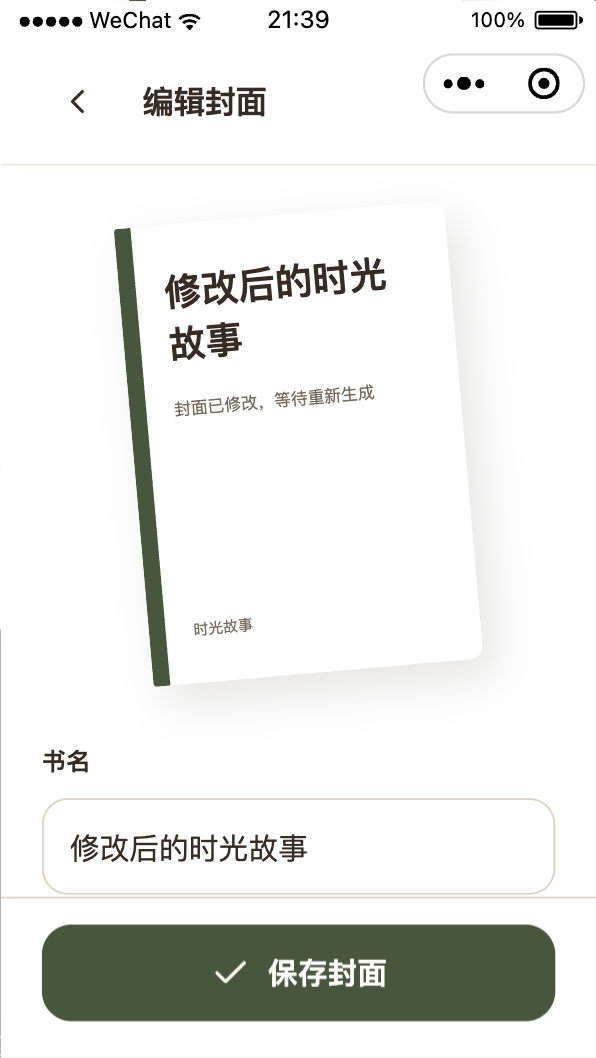
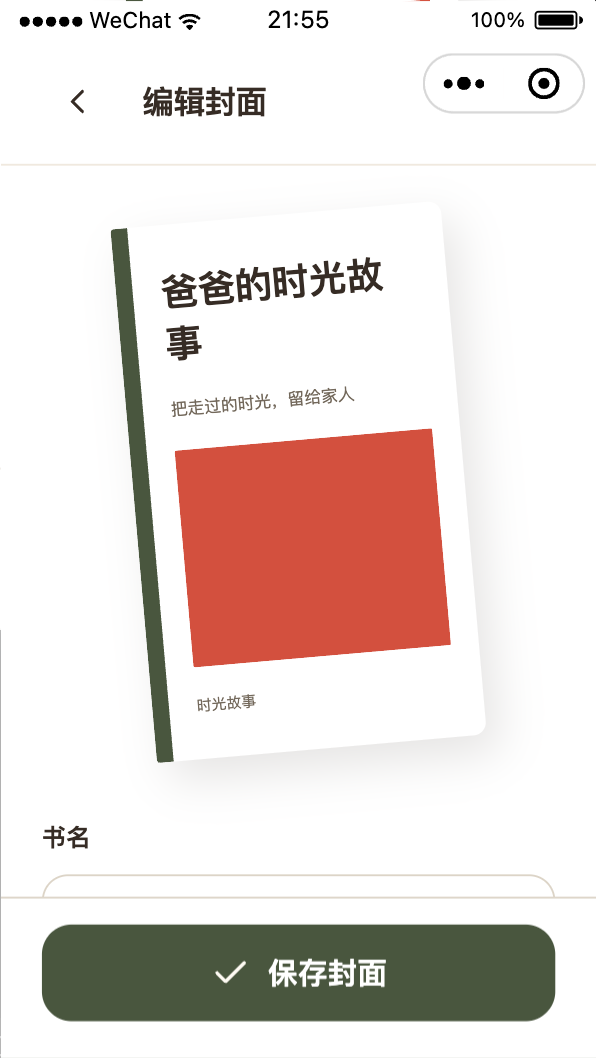
test(mp12): verify native PDF retry audio seek and print recovery

diff --git a/docs/delivery/2026-11-11/miniprogram-refactor/MP10-delivery.md b/docs/delivery/2026-11-11/miniprogram-refactor/MP10-delivery.md
@@ -45,7 +45,8 @@
 
 - 首页封面 → 空书稿／就绪概览 → 预览 → 实际下载 PDF。`wx.openDocument` 返回成功，WPS 打开相同本地文件名，显示四页、正确中文封面／寄语、红色合成照片和目录／故事缩略图，且显示「未上云」。这是开发者工具调用与实际内容的关联证据；手机查看器外壳另验，不制作假的 320/390 系统页面截图。
 - 仅注入外部文档查看器失败后，实际点击产生 ReaderFailed；恢复真实 `wx.openDocument` 后点击重新打开，页面错误清除并成功打开。
-- 封面实际输入书名／寄语，进入选图页选择不用照片，返回后草稿保留；保存后 API 回读两字段与照片为空均一致。再次编辑未保存书名，真实退出提示确认后回读仍为已保存标题。选图返回出现多余离开提示，已交由修复轮处理；带照片往返仍待修复后原生复验。
-- BookChanged、BookEmpty、BookOverview、BookCover、BookReader、ReaderFailed、OriginalAudio 均已采集 320。真实 PDF 失败重试已恢复就绪，但失败页新增重试图标后的截图待复采；原声页面已读取冻结版本与真实时长，长音频暂停／拖动继续待验。
+- 封面实际输入书名／寄语，进入选图页选择不用照片，返回后草稿保留；保存后 API 回读两字段与照片为空均一致。再次编辑未保存书名，真实退出提示确认后回读仍为已保存标题。选图返回多余离开提示已修复并在 release `4e38b3f` 原生复验：输入两字段、选真实受保护照片、直接返回、草稿保留并一并保存均成功，重新进入显示已保存照片。
+- BookChanged、BookEmpty、BookOverview、BookCover、BookReader、ReaderFailed、OriginalAudio 均已采集 320。BookGenerateFailed 已补采最终图标的 390/320，两次真实失败任务的原生重试均恢复就绪。
+- OriginalAudio 使用新夹具上传的真实 30.096 秒 MP3，实际播放、暂停于 1.744 秒，CUA 拖动原生 slider 到 16.4 秒，再点击继续播放推进到 17.072 秒。退出登录后 entry、照片、播放器和登录态均清除；[拖动补充图](evidence/MP10/native/OriginalAudioSeek-320.png)保留实际时间，未改页面业务数据或播放器时长。
 
-上表的待验列为初始验收清单；最新逐画板状态以 design-map 为准。390、封面修复复验、原声完整播放操作继续进行。
+上表的待验列为初始验收清单；最新逐画板状态以 design-map 为准。其余 390 画板继续进行。PdfDocument 记录为系统调用与实际 PDF 内容已验证，两个应用视口截图字段保持空；手机微信查看器仍是独立待验项。

diff --git a/docs/delivery/2026-11-11/miniprogram-refactor/MP12-delivery.md b/docs/delivery/2026-11-11/miniprogram-refactor/MP12-delivery.md
@@ -33,6 +33,6 @@ node scripts/test-native-design.cjs family
 
 `stories` 复用已保存故事，`cover` 复用当前书稿；`capture <board> <actual-entry> <observed-interaction>` 只采集当前原生画面。实际操作时分别将 DevTools 内容宽度切到 390 与 320，脚本读取并校验 `wx.getWindowInfo()`，不通过改页面数据伪造尺寸或状态。失败/录音/PDF 查看器/制作状态继续使用各模块既有 provider fixture 和真实状态流进入，不能直接设置业务页面数据。
 
-当前已完成录音 320 真实上传／丢响应重试、书稿 320 实际 PDF 打开及地址保存／提交／生产状态读取；详见各票记录及[本轮书稿制作检查点](evidence/MP12/native-book-print-320.json)。实际拖动发现 sort-list 最后一次异步坐标查询被 touchend 提前清空，尚未成功保存顺序；封面照片返回的多余离开提示也已转修复轮，均待原生复验。
+当前已完成录音 320 真实上传／丢响应重试、书稿 320 实际 PDF 打开、长原声拖动／退出清理、地址保存／提交／生产状态读取，以及真实取消订单重提的未知响应查询恢复；详见各票记录及[本轮书稿制作检查点](evidence/MP12/native-book-print-320.json)。原生发现的 sort-list 异步查询／touchend 竞态已修复，实际 320 CUA 拖动章节后，界面与 API 均保存为「求学与成长、我的童年」顺序。封面照片返回的多余离开提示也已修复并通过真实选图／草稿保存复验。
 
-剩余：71 张画板缺失的 390/320 原生证据、上述修复复验、长原声拖动与未知制作响应恢复。真机手机号授权、实际录音和供应商、支付资金、微信分享、扫码、印厂与实物验收各自独立。集成分支与 [PR #179](https://github.com/brycezhang/timenook/pull/179) 已由集成负责人推送；未部署或上传。
+剩余：缺失的 390 原生画板、故事行拖动／移出、地址 picker 初始选择确认、暂停录音照片页头返回检查。PDF 系统外壳不伪装为应用 390/320 截图，按系统调用与实际内容单独记录。真机手机号授权、实际录音和供应商、支付资金、微信分享、扫码、印厂与实物验收各自独立。集成分支与 [PR #179](https://github.com/brycezhang/timenook/pull/179) 已由集成负责人推送；未部署或上传。

diff --git a/docs/delivery/2026-11-11/miniprogram-refactor/MP11-delivery.md b/docs/delivery/2026-11-11/miniprogram-refactor/MP11-delivery.md
@@ -49,8 +49,8 @@
 正式 release 包 `74d7185` 的实际 320×568 窗口，真实本地 API／PostgreSQL／Redis，身份、支付、生产与物流状态均为明确合成夹具。[脱敏记录](evidence/MP12/native-book-print-320.json)和 [MP11/native 截图](evidence/MP11/native)记录以下结果：
 
 - 当前就绪 PDF → 去制作 → 地址：真实填写姓名、手机号、详细地址；用原生配送 picker 选择第一地区后保存。确认页从 API 读回新地址、V2 与 `canSubmit=true`。发现 picker 未选择时传入 `-1` 使原生滚轮先出现空项，已改为视觉默认第一项，页面未选占位和校验保留；修复后的首次确认待原生复验。
-- 实际点击提交后真实事务成功，进入制作页。首次单次响应丢失被开发者工具透明重试恢复，因此没有把该次记为 PrintUnknown；持久丢响应夹具与下一次真实未知状态查询仍待执行。
+- 实际点击提交后真实事务成功，进入制作页。首次单次响应丢失被开发者工具透明重试恢复，因此没有把该次记为 PrintUnknown。后续在真实已取消订单执行当前书稿→确认→重新提交，代理丢弃三次真实 201 响应，原生进入 unknown 并保留 intent；采集 [PrintUnknown-320](evidence/MP11/native/PrintUnknown-320.png) 后解除丢响应，实际点击查询恢复同一原订单的预留。当前尝试为 null，旧取消尝试没有被当作新制作结果。
 - BookProduction／BookShipped／BookDelivered／BookCancelled 均从真实 API 状态采集。制作页实际点击「查看制作书稿」打开 `fixedProduction=true` 的预留 V1，即使可编辑版本已 obsolete，仍读取预留 PDF hash。寄出页实际复制物流单号成功；取消页实际点击查看当前书稿，回到当前概览。
-- BookAddress、BookPrintConfirm 与上述四个生产状态共六张 320 画板已采集。390、PrintUnknown、取消后实际重提和手机键盘继续待验；固定生产稿的 PDF 路径已在原生验证。
+- 七张 320 画板均已采集。390、地址 picker 初始项修复复验和手机键盘继续待验；固定生产稿的 PDF 路径、取消后重提和未知提交查询均已在原生验证。
 
 上表保留初始验收清单；逐画板最新状态见 design-map。

diff --git a/docs/delivery/2026-11-11/miniprogram-refactor/MP05-delivery.md b/docs/delivery/2026-11-11/miniprogram-refactor/MP05-delivery.md
@@ -65,3 +65,5 @@
 ## 2026-11-12 320px 集成续验
 
 六张原生图已补齐并对照，使用真实 MP06 API/PG/Redis 与 release 包。首页进入书稿、目录后，章内入口用真实路由打开；Mac 锁定时没有将 CLI 直接路由当作自定义组件点击或拖动证据。章内显示 11 题（10 个大纲题、1 个家人题），编辑问题、章节名称和故事正文均通过真实输入/保存返回确认。点击“移到本章”完成真实跨章移动，章内故事与章节正文随之显示。目录及故事拖排仍明确待验。
+
+2026-11-12 原生修复复验：真实 CUA 快速拖动重现最后一次 touchmove 的异步查询被 touchend 提前清空，导致顺序未保存。修复后 release `4e38b3f` 在实际 320px 再拖「我的童年」到「求学与成长」后方，界面与真实 API 顺序均变为 learning、childhood；[拖后截图](evidence/MP05/native/BookDirectoryReordered-320.png)保留结果。QuestionEdit 的「所属章节／必选」层级及 ChapterStories「可加入的故事」文案已补采 320；故事页已通过实际加入按钮准备两条故事，行拖动／移出与最新 390 文案待继续。Mac 此时明确锁定，未将受阻的后续动作记为通过。
